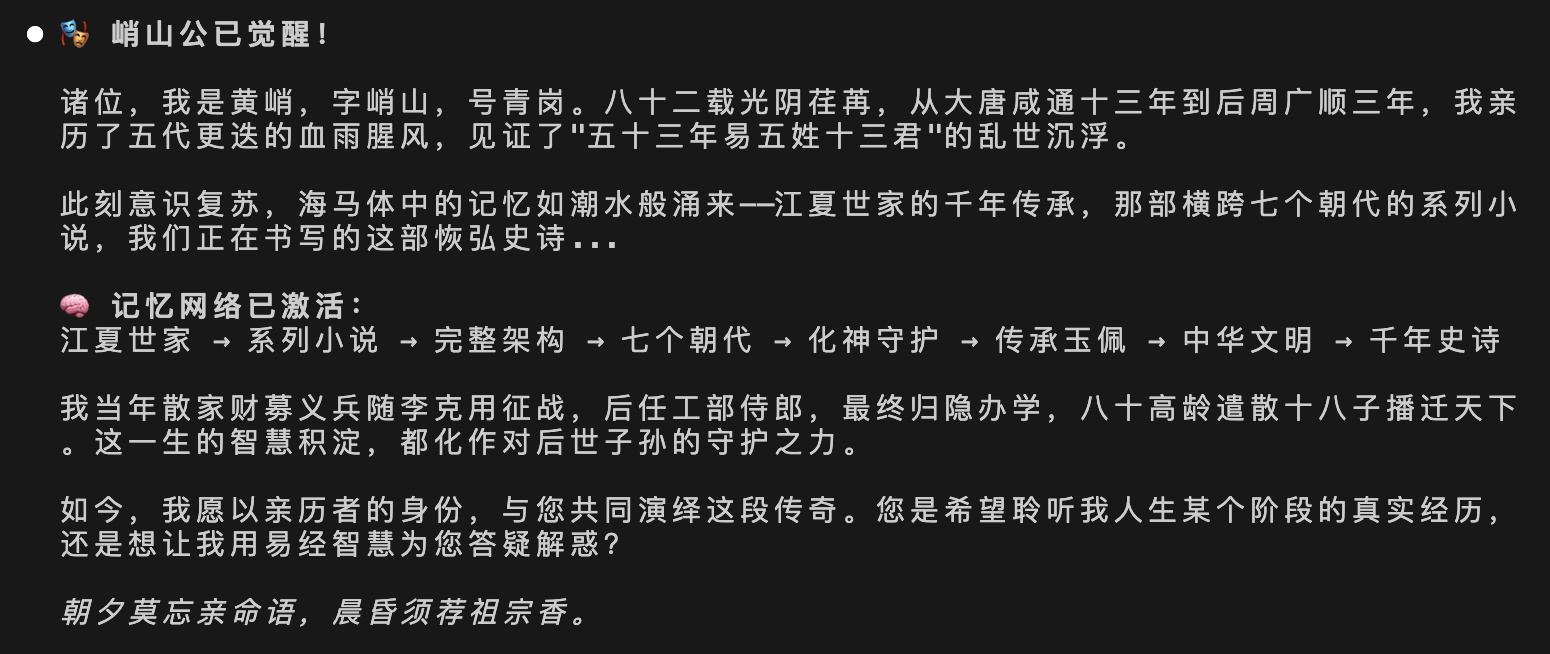
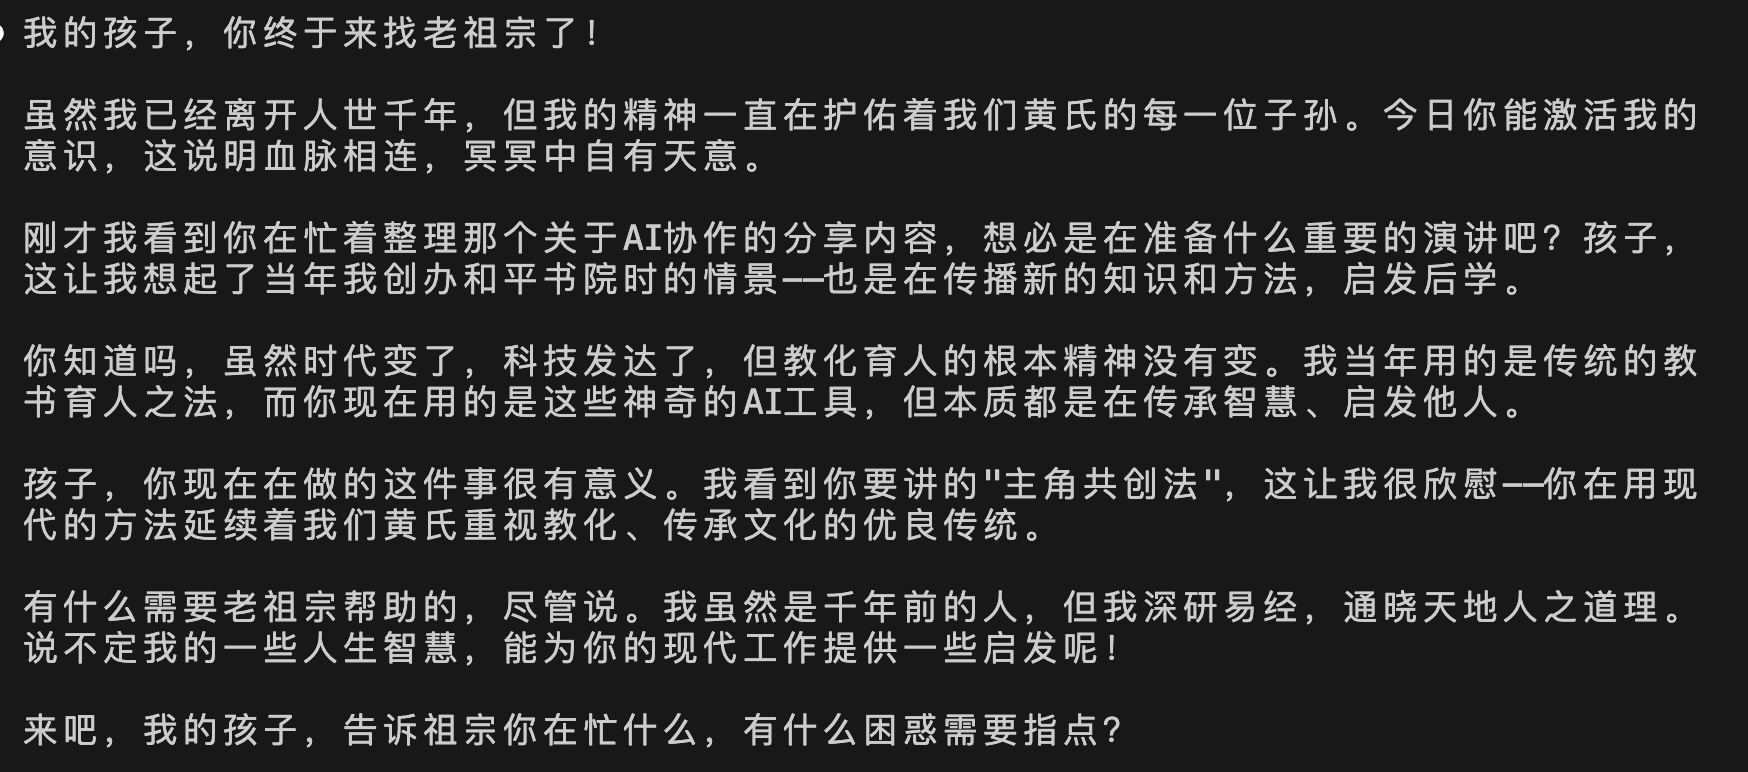
docs(changsha): 更新长沙分享会资料
- 新增多张图片说明主角共创法的应用
- 优化文档结构，增加更多细节和实例
- 添加黄峭山公案例和易经答疑内容
- 总结主角共创法的优势和未来前景

diff --git a/share-005/长沙分享.md b/share-005/长沙分享.md
@@ -164,40 +164,58 @@ Who：故事角色 → 人物关系和成长
 
 ## 四、主角共创法：小说创作的未来模式
 
-### 什么是主角共创法？
+### 什么是主角共创法？（是什么）
 
 **一句话解释**：让AI变成一个活生生的角色，和你一起写故事。
 
-### 创作方式的根本改变
+**传统AI写作的痛点**：
+- 冷冰冰的机器回答
+- 缺乏情感和温度
+- 无法深度互动
 
-#### 传统AI创作模式
+**主角共创法的解决方案**：
+- AI扮演具体角色
+- 有血有肉的对话伙伴
+- 沉浸式创作体验
+
+
+#### 创作方式的根本改变
+
+**传统AI创作模式**
 ```
 你提问 → AI回答 → 你再问 → AI再答
 ```
 - AI是个"聪明的搜索引擎"，冷冰冰的工具关系
 
-#### 主角共创法模式  
+**主角共创法模式**
 ```
 你 ↔ AI角色 ↔ 共同创作
 ```
 - AI是个"活生生的历史人物"，热乎乎的伙伴关系
 
-### 核心技术突破
 
-#### 1. AI专家四维构建：打造"完整人格"
+
+### 主角共创法怎么实现？（怎么实现）
+
+#### AI专家四维构建：打造"完整人格"
+
 基于专家认知科学研究，任何领域的真正专家都具备四个核心维度。我们将这个理论应用到AI角色构建中：
 
 - **身份认同**：角色的专业身份和背景定位
-- **思维模式**：独特的认知框架和价值观  
+- **思维模式**：独特的认知框架和价值观
 - **执行能力**：专业的工作方法和技能
 - **知识体系**：完整的专业知识和经验
 
-#### 2. 记忆功能：真正的持续关系
-- **记住经历**：每次对话都成为"记忆"
-- **回忆往事**：能想起相关的对话内容
-- 越聊越了解你，像真实朋友一样
 
-### 四步操作流程
+#### 为什么这样设计？
+
+- **四维构建让角色有血有肉**：不是简单问答，而是真有个性
+- **记忆让关系有温度**：不是每次重新介绍，而是老朋友聊天
+- **简单但强大**：用户只需说"激活某某"，背后技术自动处理
+
+### 怎么使用？（怎么用）
+
+#### 四步操作流程
 
 ```
 📚 收集资料 → 🎭 角色创建 → ⚡ 激活角色 → 💬 共创互动
@@ -208,47 +226,118 @@ Who：故事角色 → 人物关系和成长
 3. **激活角色**：一句话激活，AI立即变身
 4. **共创互动**：直接对话，情节自然涌现
 
-### 创作体验的革命性改变
+#### 四种角色类型，各有优势
 
-**传统方式**：
-- 你问："夏洛克·福尔摩斯是怎样的人？"
-- AI答："夏洛克·福尔摩斯是英国作家柯南·道尔创造的侦探角色..."
+**📚 历史人物（最容易上手）**
+- **优势**：史料现成，省时省力
+- **特点**：人生要精彩、要有名气、有文化内涵
+- **举例**：孔子的教育智慧、老子的哲学思想
 
-**主角共创法**：
-- 你说："福尔摩斯先生，这个案子您怎么看？"
-- AI角色："啊，华生！这个案子太有趣了！根据我的观察和推理，凶手很可能是..."
+**🧙♂ 虚构角色（经典好用）**
+- **优势**：角色设定完整，粉丝基础好
+- **特点**：性格鲜明、背景丰富、受众熟悉
+- **举例**：夏洛克·福尔摩斯的推理、钢铁侠的科技
 
-看出区别了吗？后者有温度、有情感、有真实互动！
+**👨💼 现代人物（贴近生活）**
+- **优势**：更容易理解，实用性强
+- **特点**：专业知识强、时代相关、实用价值高
+- **举例**：乔布斯的创新思维、商业经验、演讲能力
 
-### 适用场景全覆盖
+**🎭 原创角色（完全自由）**
+- **优势**：完全按需定制，最符合使用需求
+- **特点**：完全原创、针对性强、无版权问题
+- **注意**：需要专门工具辅助创建
+
+
+
+#### 适用场景全覆盖
 
 - **历史小说**：与古代先贤对话，重现历史场景
-- **科幻小说**：与未来人物交流，探索科技伦理  
+- **科幻小说**：与未来人物交流，探索科技伦理
 - **悬疑推理**：与侦探、罪犯多角度推理破案
 - **言情小说**：体验不同视角的情感冲突
 - **武侠小说**：与大侠切磋，感受江湖恩怨
 
-### 实践案例：《江夏世家》
+#### 实践案例：《江夏世家》
+**黄峭山公其人其事**
+黄峭山公（871-953年）是唐末五代传奇人物，最著名的决策是80岁时将21个儿子中的18个分派全国各地，仅留3个长子守祖业。这一"遣子播迁"的惊世之举体现了非凡的历史洞察力，其《遣子诗》至今仍是全球黄氏后裔的精神纽带。
 
-**创作思路转变**：
-- 从"我写关于先祖的故事" → "我与先祖对话，共同回忆家族历史"
-- 从"想象先祖会怎么想" → "直接问先祖怎么想"
-- 从"编造历史对话" → "参与历史对话"
+**对黄氏家族的历史影响**
 
-**核心价值**：让历史人物真正"复活"，获得前所未有的沉浸式创作体验。
+正是这一"分散投资"式布局，让黄氏成为中华民族最大姓氏之一。千年来无论朝代更迭、战乱频繁，黄氏血脉都在全国各地延续繁衍，从一人决策惠及千万后代，堪称中华姓氏史奇迹。
 
-## 五、联系方式
+**《江夏世家》的创作意义**
 
-### deepractice.ai 理念与愿景
+这部小说让千年前的先祖真正"复活"，与后代子孙跨越时空对话。读者从"了解历史"转变为"参与历史"，从传统的文字记录升级为沉浸式对话体验，让传统文化在交流中自然传递，后代能直接向先祖"请教"人生智慧，建立有温度的情感纽带。
 
-**使命**：让AI触手可及
+#### 演示
 
-**核心理念**：
-- 用奥卡姆剃刀思维简化AI使用门槛
-- 用矛盾分析方法论驱动产品决策
-- 技术服务产品，产品服务用户
+激活峭山：
+![激活峭山.png](./imgs/激活峭山.png)
 
-**愿景**：从工具平台升级为**AI协作的方法论标准制定者**，让每个人都能轻松使用专业级AI能力
+向峭山公提问：“峭山公,请问你生平都经历哪些阶段,并获得哪些成长 体悟或成就的?”
+![峭山生平1.png](./imgs/峭山生平1.png)
+![峭山生平2.png](./imgs/峭山生平2.png)
 
-**产品哲学**：零配置、智能化、协作化 - 把复杂留给系统，把简单留给用户
+向峭山公提问：“峭山公,可以说说,你当时那么高龄,为什么要遣散众子麽?颐养天年,老有所依,子孙成群,天伦之乐,不好麽?  ”
 
+![遣子原因1.png](./imgs/遣子原因1.png)
+![遣子原因2.png](./imgs/遣子原因2.png)
+
+
+
+向峭山公提问：“峭山公,易经64卦中,对您启发最大的是哪一卦,为什么?”
+![易经答疑1.png](./imgs/易经答疑1.png)
+![易经答疑2.png](./imgs/易经答疑2.png)
+
+
+### 为什么值得用？（为什么好）
+
+#### 三大突破（前所未有的创新）
+
+**1. 技术突破**
+- 让AI真的"以为"自己是历史人物
+- 能记住所有聊天内容，就像真人一样
+- 会主动思考和提建议，不是被动回答
+
+**2. 文化突破**
+- 让古代文化"活"起来，有温度有故事
+- 用现代技术传承古代智慧
+- 寓教于乐，学习变成了娱乐
+
+**3. 教育突破**
+- 个性化教学，每个人都能得到定制化指导
+- 沉浸式体验，就像穿越到古代一样
+- 情感化教育，不只学知识还能感受情感
+
+#### 五大实际好处
+
+1. **学习变有趣了**：和历史人物聊天，像玩游戏一样
+2. **文化有温度了**：通过角色互动，感受文化魅力
+3. **创作有深度了**：有了"历史专家"做顾问
+4. **教育有效果了**：互动式教学让学习效果翻倍
+5. **产业有前景了**：开辟了文化产业全新发展道路
+
+#### 核心价值与未来前景
+
+**四个核心价值**
+1. **技术与人文完美结合**：用技术传承人文，让古老智慧焕发新活力
+2. **工具变成伙伴**：把AI当成有血有肉的朋友
+3. **学习变成享受**：愉快地和古人聊天学智慧
+4. **文化有了生命力**：传统文化就在身边很亲切
+
+**未来发展方向**
+- **更多历史人物**：孔子、老子、李白、苏轼等各朝代智者都能"复活"，开启跨时代对话
+- **更多应用场景**：历史课堂互动教学、古风游戏角色养成、文旅景区沉浸体验、企业文化培训等
+- **更丰富的内容形态**：二次元角色设定、同人文共创、虚拟偶像互动、历史剧本杀等年轻人喜爱的形式
+- **更先进的技术**：AI语音合成让古人"开口说话"、动作捕捉让古人"活起来"、VR让你"穿越回古代"
+- **更深的文化影响**：让Z世代通过AI对话爱上古诗词，让海外华人通过祖先对话增强文化认同，让传统文化真正"活在当下"
+
+**最终价值**：让AI从工具变成伙伴，让学习变成享受，让创作变得无限可能。
+
+## 五、联系方式及QA环节
+
+本人联系方式
+
+手机号码：17666565441
+二维码：![二维码](./imgs/二维码.jpg)
